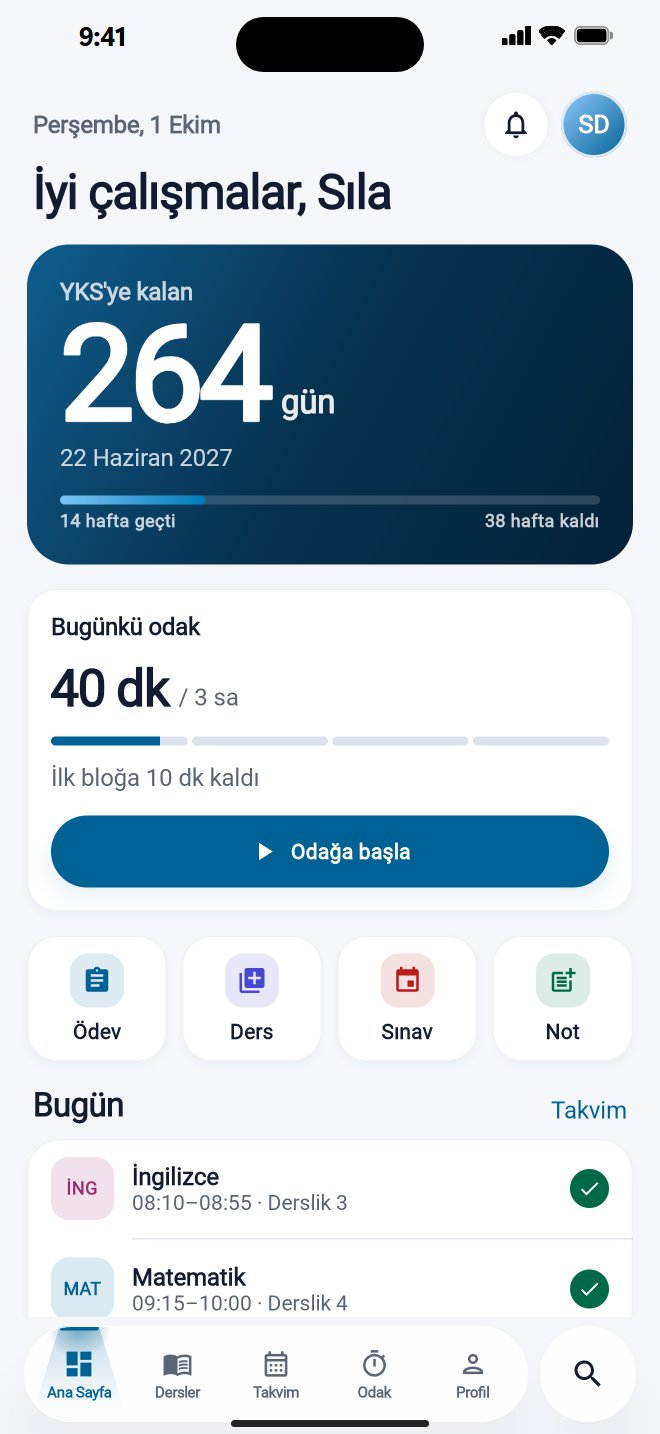
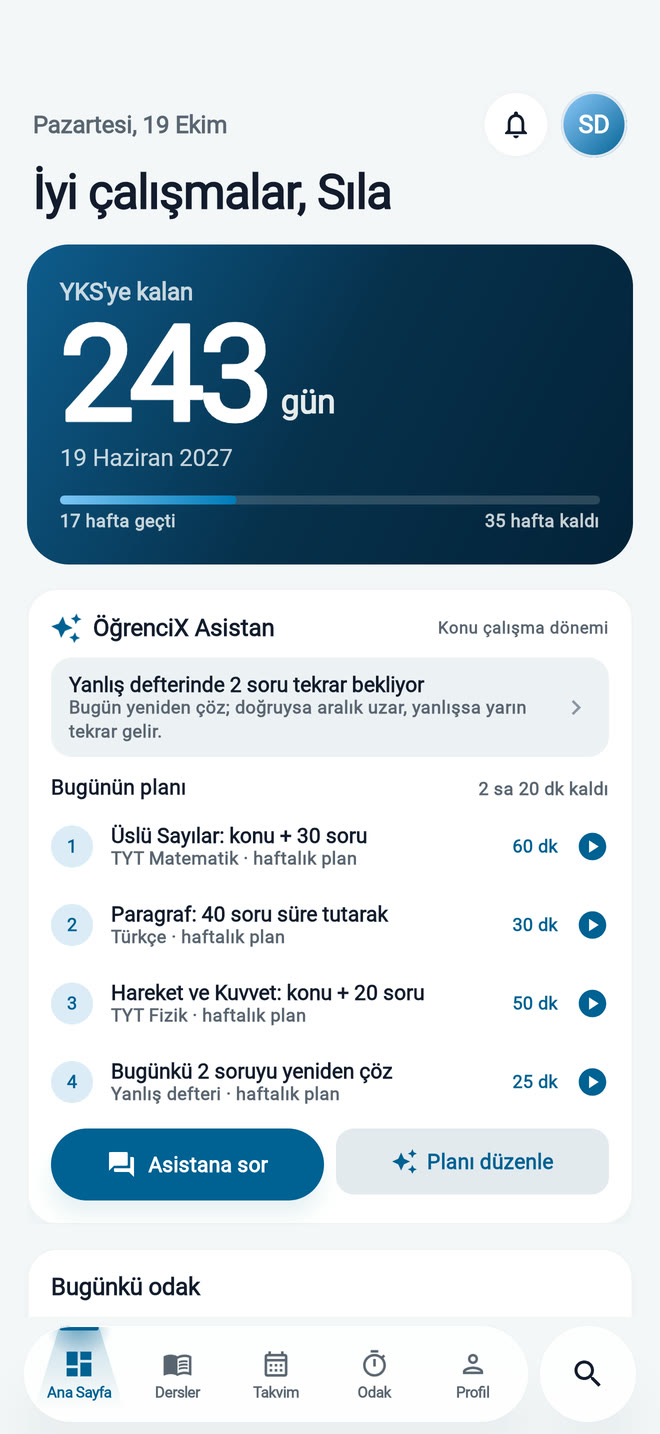
Landing page: ÖğrenciX Asistan and Yanlış defteri sections, Konular, KPSS/YDT
- New sections with fresh captures: ÖğrenciX Asistan (photo question solving, topic help, the AI week plan on Home) and Yanlış defteri (spaced review 1-3-7-15-30 days)
- Konu section now shows the Konular tab (328 topics, Sorular log); Denemeler covers YDT, KPSS and the estimated score; leaderboard copy mentions this week's activity and head-to-head
- Hero and meta description mention YKS, KPSS, LGS and the assistant; Home capture shows the assistant card with today's plan

diff --git a/index.html b/index.html
@@ -4,7 +4,7 @@
 <meta charset="utf-8">
 <meta name="viewport" content="width=device-width,initial-scale=1">
 <title>ÖğrenciX: Odak ve Ders Takibi</title>
-<meta name="description" content="Sınava kalan günü gör, çalıştığın zamanı ölç. Odak kadranı, konu hakimiyeti, deneme netleri, genel sıralama, ders, ödev ve sınav takibi tek uygulamada.">
+<meta name="description" content="YKS, KPSS ve LGS için çalışma uygulaması. ÖğrenciX Asistan haftanı planlar ve sorunu adım adım çözer; yanlış defteri, konu takibi, deneme netleri, odak kadranı ve arkadaşlarla sıralama tek yerde.">
 <meta name="theme-color" content="#062a44">
 <meta property="og:title" content="ÖğrenciX: Odak ve Ders Takibi">
 <meta property="og:description" content="Sınava kalan günü gör, çalıştığın zamanı ölç.">
@@ -268,16 +268,36 @@
 <main>
   <section class="sec" id="hero" data-shot="ana-sayfa" data-side="left" data-name="Giriş">
     <div class="copy">
-      <a class="eyebrow" href="#galeri"><b>Yeni</b> Baştan tasarlandı</a>
+      <a class="eyebrow" href="#asistan"><b>Yeni</b> ÖğrenciX Asistan</a>
       <h1>Sınava kalan günü gör. <em>Çalıştığın zamanı ölç.</em></h1>
-      <p>ÖğrenciX; odak seanslarını, derslerini, ödevlerini ve deneme netlerini tek yerde toplar. Kalan zamanı ve o zamanı nasıl kullandığını görürsün.</p>
+      <p>ÖğrenciX; odak seanslarını, konularını, deneme netlerini ve yanlış sorularını tek yerde toplar. ÖğrenciX Asistan bu verilere bakıp haftanı planlar, takıldığın soruyu adım adım çözer.</p>
       <div class="cta-row">
         <a class="btn ios" href="#"><svg viewBox="0 0 24 24" aria-hidden="true"><rect x="6" y="2" width="12" height="20" rx="3" fill="none" stroke="currentColor" stroke-width="2"/><rect x="10" y="4.5" width="4" height="1.6" rx=".8" fill="currentColor"/></svg><span><small>Ücretsiz · iPhone ve iPad</small>App Store'dan indir</span></a>
       </div>
-      <ul class="facts"><li>YKS · LGS · okul sınavları</li><li>Hesap açmadan kullanılır</li><li>iPhone ve iPad</li></ul>
+      <ul class="facts"><li>YKS · KPSS · LGS</li><li>Hesap açmadan kullanılır</li><li>iPhone ve iPad</li></ul>
     </div>
     <img class="fb" src="img/p/ana-sayfa.jpg" alt="ÖğrenciX ana sayfa: YKS'ye kalan gün ve bugünkü odak" loading="lazy">
     <div class="scroll-hint" aria-hidden="true">Kaydır<i></i></div>
+  </section>
+
+  <section class="sec" id="asistan" data-shot="asistan" data-side="right" data-name="ÖğrenciX Asistan">
+    <div class="copy">
+      <span class="eyebrow"><b>Yeni</b> ÖğrenciX Asistan</span>
+      <h2>Koçun cebinde. <em>Soruyu adım adım çözer.</em></h2>
+      <p>Takıldığın sorunun fotoğrafını gönder; ÖğrenciX Asistan konuyu söyler, adım adım çözer ve cevabı yazar. “Bugün ne çalışayım?” dersen bitirdiğin konulara, soru doğruluğuna ve denemelerine bakarak cevap verir. Haftamı planla’ya dokun; çalışabileceğin saatlere göre gün gün bir hafta çıkarır, bugünün kısmı ana sayfanda durur.</p>
+      <ul class="chips"><li>Fotoğrafla soru çözümü</li><li>Konu anlatımı</li><li>Haftalık plan</li></ul>
+    </div>
+    <img class="fb" src="img/p/asistan.jpg" alt="ÖğrenciX Asistan: üslü sayılar için çalışma düzeni ve fotoğraflı soru çözümü" loading="lazy">
+  </section>
+
+  <section class="sec" data-shot="yanlis" data-side="left" data-name="Yanlış defteri">
+    <div class="copy">
+      <span class="eyebrow"><b>Yeni</b> Yanlış defteri</span>
+      <h2>Yanlış yaptığın soru <em>geri gelir.</em></h2>
+      <p>Yanlış ya da boş bıraktığın sorunun fotoğrafını çek. 1, 3, 7, 15 ve 30 gün sonra yeniden karşına çıkar: çözersen aralık uzar, yine yanlışsa ertesi gün baştan başlar. Bugün tekrar bekleyen sorular ana sayfanda ve haftalık planında.</p>
+      <ul class="chips"><li>Aralıklı tekrar</li><li>Fotoğrafla ekle</li><li>Derse göre</li></ul>
+    </div>
+    <img class="fb" src="img/p/yanlis.jpg" alt="Yanlış defteri: bugün tekrar bekleyen sorular, Çözdüm ve Yine yanlış düğmeleri" loading="lazy">
   </section>
 
   <section class="sec" data-shot="odak" data-side="right" data-name="Odak">
@@ -292,20 +312,20 @@
 
   <section class="sec" data-shot="konu" data-side="left" data-name="Konu hakimiyeti">
     <div class="copy">
-      <span class="eyebrow">Konu hakimiyeti</span>
-      <h2>Zayıf konun <em>kendini gösterir.</em></h2>
-      <p>Her derste konu konu hakimiyet puanı ver. Eşiğin altına düşen konu, sıradaki hamle olarak önüne gelir: “Diziler'den başla.”</p>
-      <ul class="chips"><li>Konu puanları</li><li>Ders notları</li><li>Sayfa tarama</li></ul>
+      <span class="eyebrow">Konu takibi</span>
+      <h2>Müfredat <em>konu konu</em> önünde.</h2>
+      <p>TYT, AYT, KPSS ve LGS'nin 328 konusu hazır. Konuya dokun: başlamadım, çalışıyorum, bitti, tekrar. Ne kadarının bittiği yüzdesiyle görünür. Sorular sekmesinde çözdüğün soruları ders ders tut; bugün, bu hafta ve doğruluk oranın hep orada.</p>
+      <ul class="chips"><li>328 konu</li><li>Soru takibi</li><li>AYT alan filtresi</li></ul>
     </div>
-    <img class="fb" src="img/p/konu.jpg" alt="Matematik ders detayı: konu bazında hakimiyet puanları" loading="lazy">
+    <img class="fb" src="img/p/konu.jpg" alt="Konular: TYT Matematik konuları, bitti ve tekrar durumları" loading="lazy">
   </section>
 
   <section class="sec" data-shot="deneme" data-side="right" data-name="Deneme netleri">
     <div class="copy">
       <span class="eyebrow">Deneme netleri</span>
       <h2>Netlerin <em>yükselişini</em> izle.</h2>
-      <p>LGS, TYT ve AYT (Sayısal, Eşit Ağırlık, Sözel) denemelerini doğru ve yanlış olarak gir. Net otomatik hesaplanır; ders ders dağılım ve gelişimin grafikte görünür.</p>
-      <ul class="chips"><li>LGS</li><li>TYT</li><li>AYT</li></ul>
+      <p>TYT, AYT (Sayısal, Eşit Ağırlık, Sözel), YDT, KPSS ve LGS denemelerini doğru ve yanlış olarak gir. Net otomatik hesaplanır, yaklaşık puanın görünür; ders ders dağılım ve gelişimin grafikte. Zayıf dersin Asistan'ın planına girer.</p>
+      <ul class="chips"><li>TYT · AYT · YDT</li><li>KPSS</li><li>Tahmini puan</li></ul>
     </div>
     <img class="fb" src="img/p/deneme.jpg" alt="TYT deneme netleri ve gelişim grafiği" loading="lazy">
   </section>
@@ -332,9 +352,9 @@
 
   <section class="sec" id="siralama" data-shot="siralama" data-side="left" data-name="Genel Sıralama">
     <div class="copy">
-      <span class="eyebrow"><b>Yeni</b> Genel Sıralama</span>
+      <span class="eyebrow">Genel Sıralama</span>
       <h2>Arkadaşlarınla <em>yarış.</em></h2>
-      <p>Odak dakikaların, biten ödevlerin ve denemelerin XP kazandırır. Bu hafta, tüm zamanlar ve arkadaşlar sıralamasında yerini gör; arkadaşını koduyla ekle. Biri seni geçerse haberin olur.</p>
+      <p>Odak dakikaların, biten ödevlerin ve denemelerin XP kazandırır. Bu hafta, tüm zamanlar ve arkadaşlar sıralamasında yerini gör; arkadaşını koduyla ekle. Bu hafta kim ne yaptı, bir arkadaşınla kafa kafaya nasılsın, hepsi bir bakışta. Biri seni geçerse haberin olur.</p>
       <ul class="chips"><li>Bu Hafta</li><li>Tüm Zamanlar</li><li>Arkadaşlar</li></ul>
     </div>
     <img class="fb" src="img/p/siralama.jpg" alt="Genel sıralama: haftalık XP podyumu" loading="lazy">
@@ -440,7 +460,7 @@
     </div>
   </section>
 
-  <section class="sec" id="indir" data-shot="onboarding" data-side="left" data-name="İndir">
+  <section class="sec" id="indir" data-shot="onboarding" data-side="right" data-name="İndir">
     <div class="copy">
       <h2>Sınava kalan günler <em>boşa gitmesin.</em></h2>
       <p>ÖğrenciX ücretsiz. İndir, sınav tarihini gir, ilk odak seansını başlat.</p>
